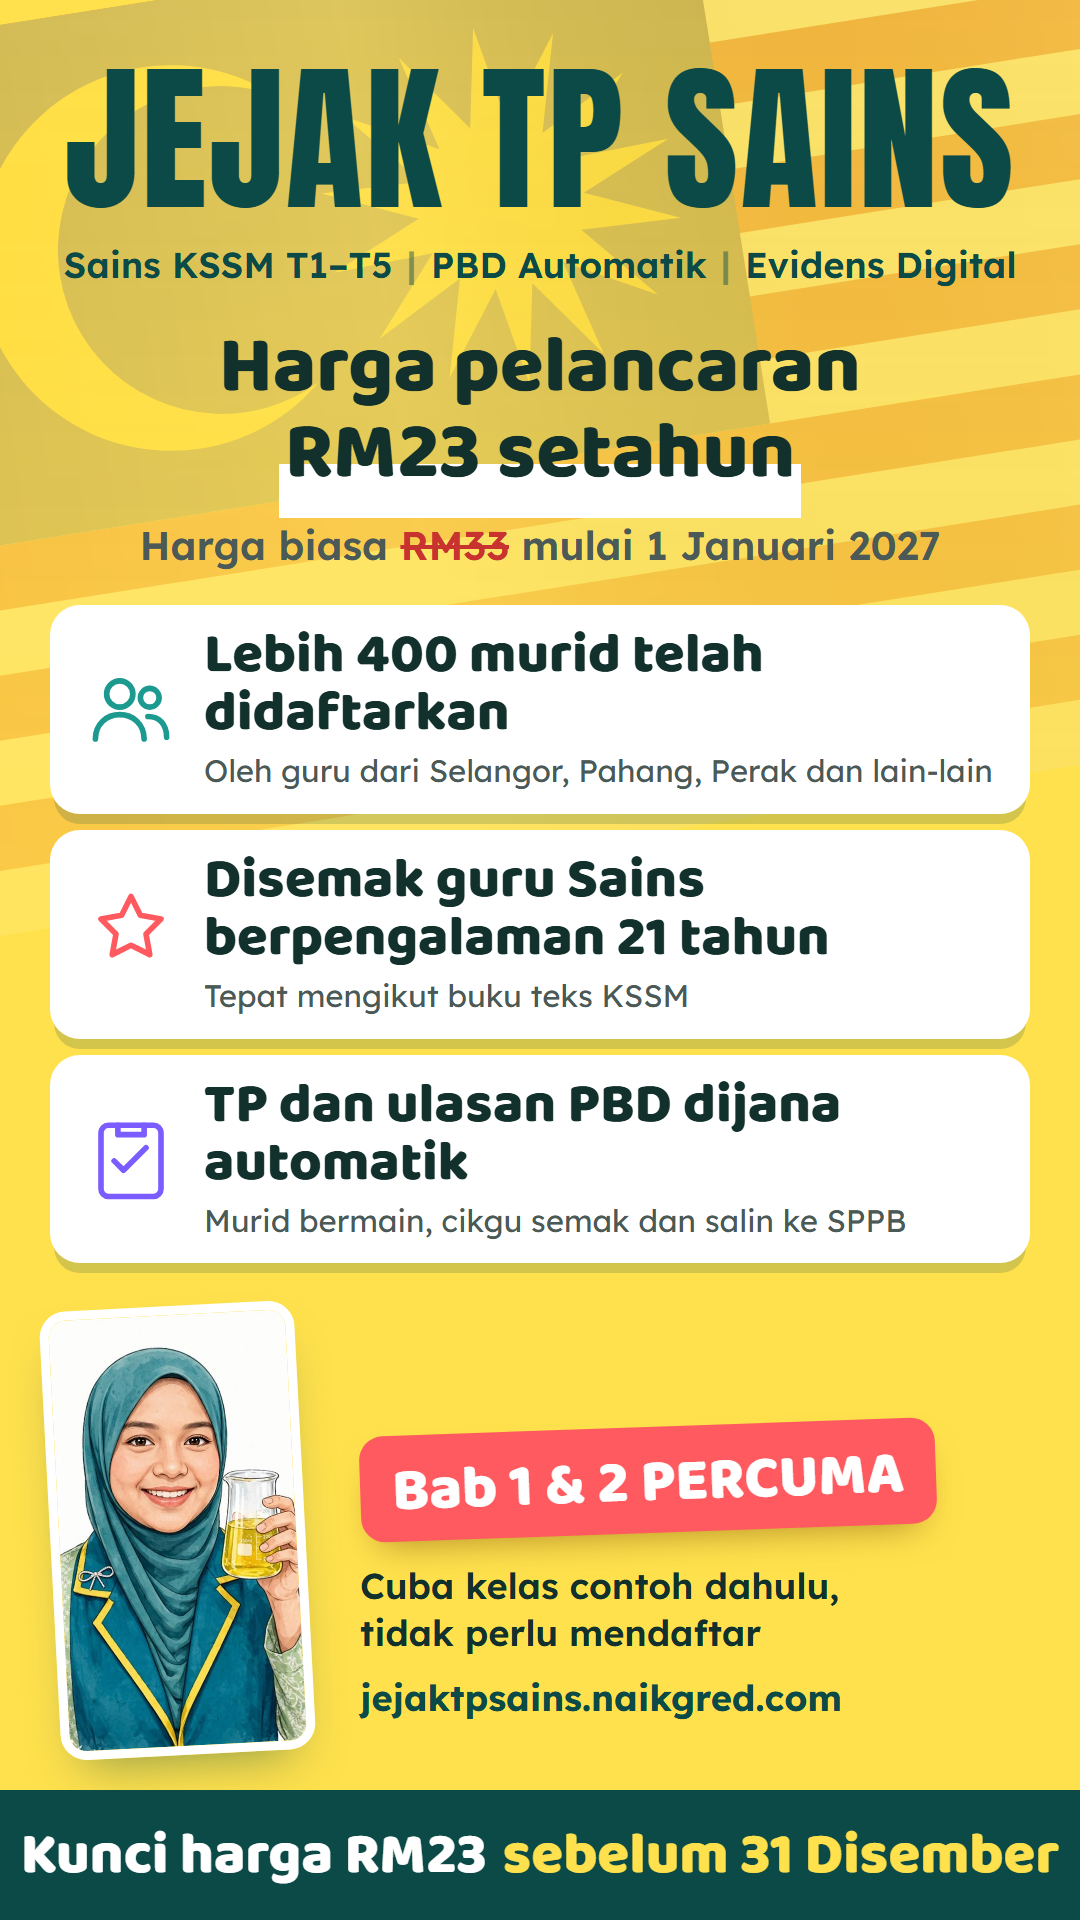
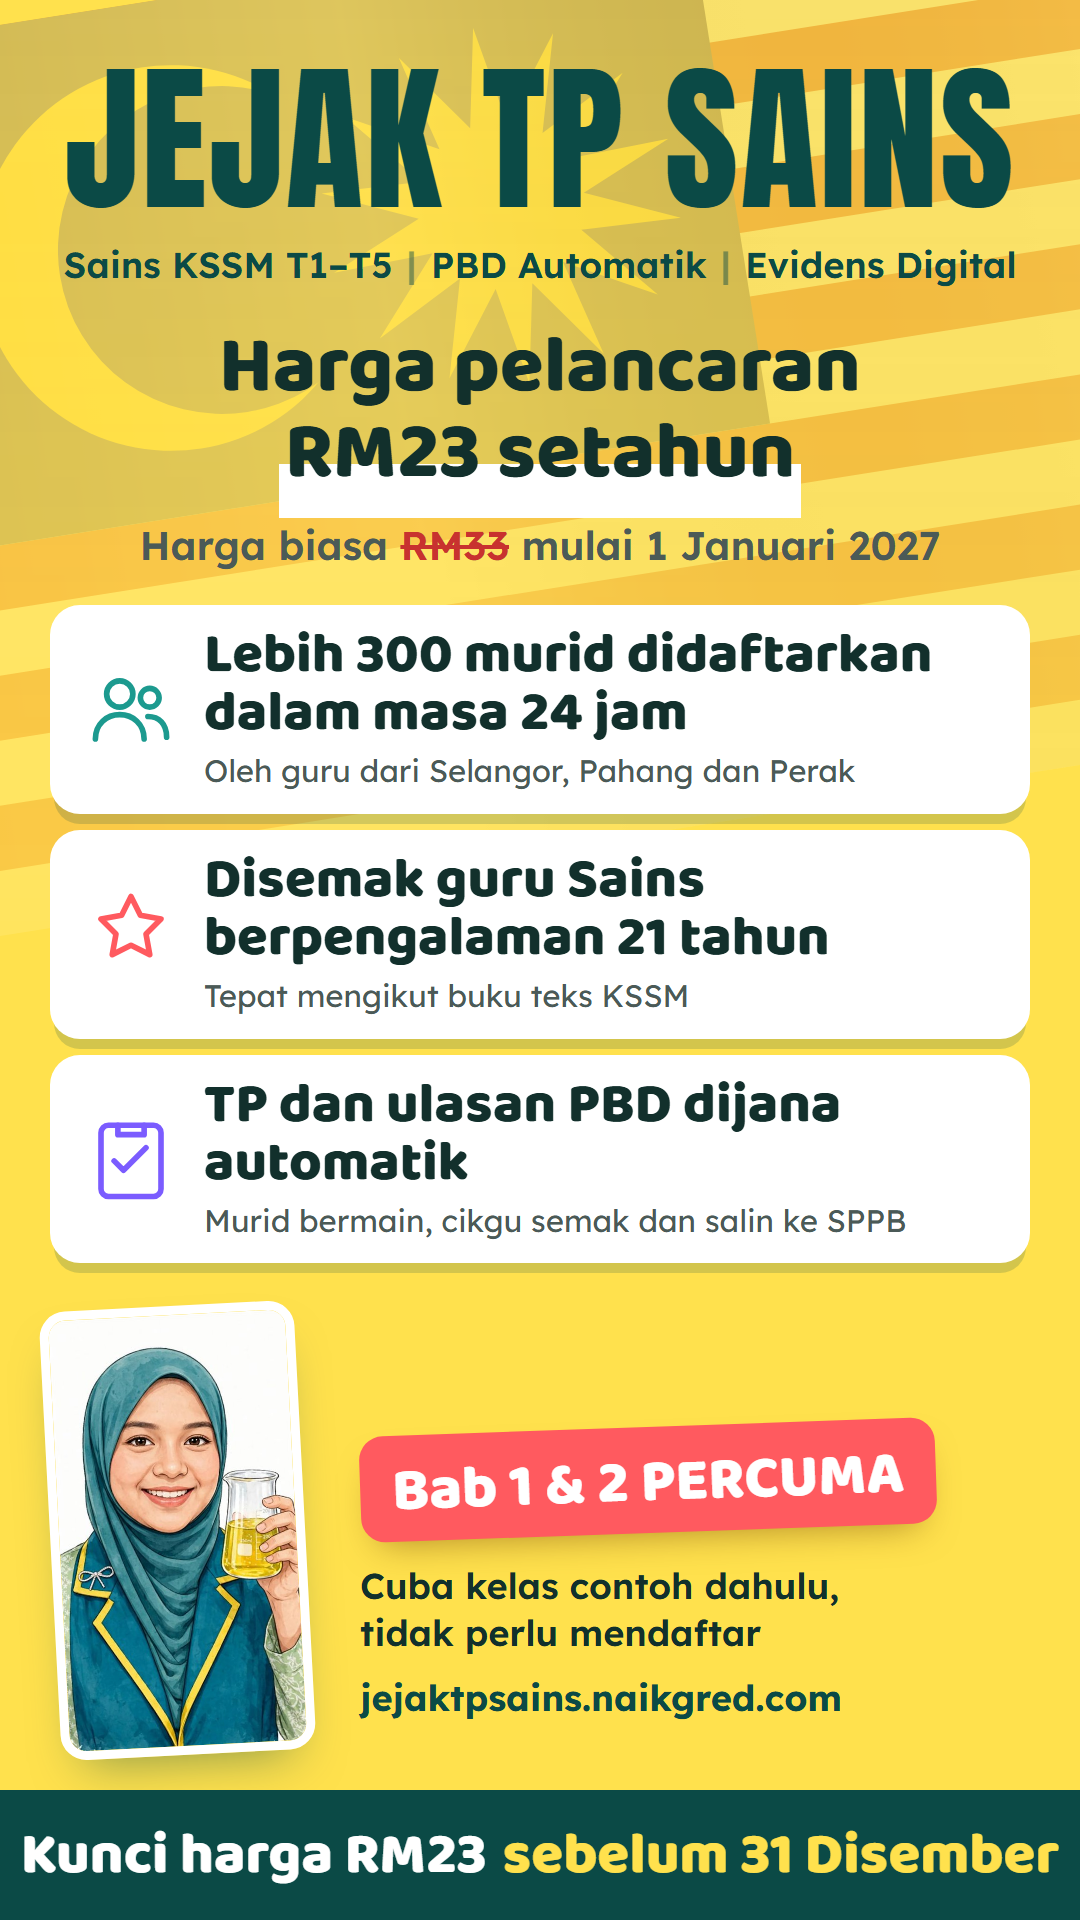
Poster: 300 murid dalam 24 jam

Changed region(s): [[0.2139, 0.3125, 0.9167, 0.4062]]

diff --git a/tools/poster-pelancaran.html b/tools/poster-pelancaran.html
@@ -94,7 +94,7 @@ body.pastel{--bendera-op:.16;--paper:#FFF4E8;--jenama:#FF5A36;--sub:#6C4BD8;--hl
 <div class="kad-kad">
   <div class="kad">
     <svg viewBox="0 0 48 48" fill="none" stroke="currentColor" stroke-width="3" stroke-linecap="round" stroke-linejoin="round"><circle cx="18" cy="16" r="7"/><path d="M5 40c0-8 6-13 13-13s13 5 13 13"/><circle cx="34" cy="18" r="5"/><path d="M33 28c6 0 10 4 10 11"/></svg>
-    <div><h2>Lebih 400 murid telah didaftarkan</h2><p>Oleh guru dari Selangor, Pahang, Perak dan lain-lain</p></div>
+    <div><h2>Lebih 300 murid didaftarkan dalam masa 24 jam</h2><p>Oleh guru dari Selangor, Pahang dan Perak</p></div>
   </div>
   <div class="kad">
     <svg viewBox="0 0 48 48" fill="none" stroke="currentColor" stroke-width="3" stroke-linecap="round" stroke-linejoin="round"><path d="M24 4l5 10 11 2-8 8 2 11-10-5-10 5 2-11-8-8 11-2z"/></svg>
